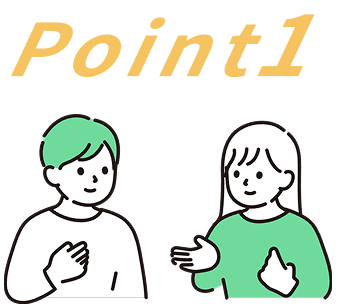
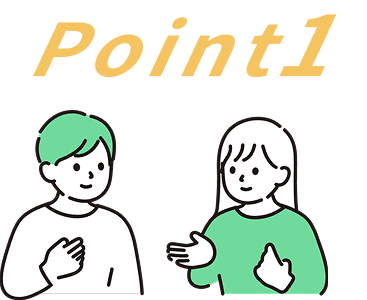
add

Changed region(s): [[0.0, 0.36, 0.9855, 1.0], [0.029, 0.03, 0.9275, 0.27]]

diff --git a/css/style.css b/css/style.css
@@ -344,7 +344,7 @@ section {
 }
 
 .about-inr {
-    padding-top: 40px;
+  padding-top: 40px;
   margin: 0 auto;
   max-width: 1000px;
 }
@@ -370,7 +370,7 @@ section {
 }
 
 .point-block .point {
-  width: 80%;
+  width: 70%;
   margin-bottom: 20px;
   height: auto;
   vertical-align: bottom;
@@ -379,16 +379,33 @@ section {
 .point-content {
   width: 65%;
 }
-
 .point-content h3 {
-  font-size: 26px;
-  margin: 0 0 30px;
-  padding: 8px;
+  font-size: 24px;
+  margin: 0 0 26px;
+  padding-bottom: 5px;
   font-weight: bold;
-  position: relative;
   border-bottom: solid 1px #444;
 }
-
+.about-button{
+  text-align: center;
+}
+.button-orange{
+  background: linear-gradient(to bottom, #f9c350, #e8a832);
+    display: inline-block;
+    width: 300px;
+    color: #fff;
+    padding: 20px 0;
+    border-radius: 20px;
+    font-size: 24px;
+    text-decoration: none;
+    box-shadow: 4px 4px 4px rgba(0,0,0,0.2);
+    cursor: pointer;
+    transition: all 0.3s ease;
+}
+.button-orange:hover {
+  opacity: 0.9;
+  transform: scale(1.1);
+}
 @media screen and (max-width: 900px) {
   .about-flex {
     flex-direction: column;

diff --git a/index.html b/index.html
@@ -113,6 +113,9 @@
                         </div>
                     </div>
                 </div>
+                <div class="about-button">
+                    <a href="#" class="button-orange">今すぐ参加する</a>
+                </div>
             </div>
 
 
@@ -395,7 +398,7 @@
                     <div class="accordion-content">
                         <div class="accordion-inner">
                             <span>もちろん大丈夫です！ <br>
-                                作業だけで参加れてる方も沢山います。</span>
+                                作業だけで参加されてる方も沢山います。</span>
                         </div>
                     </div>
                 </div>
